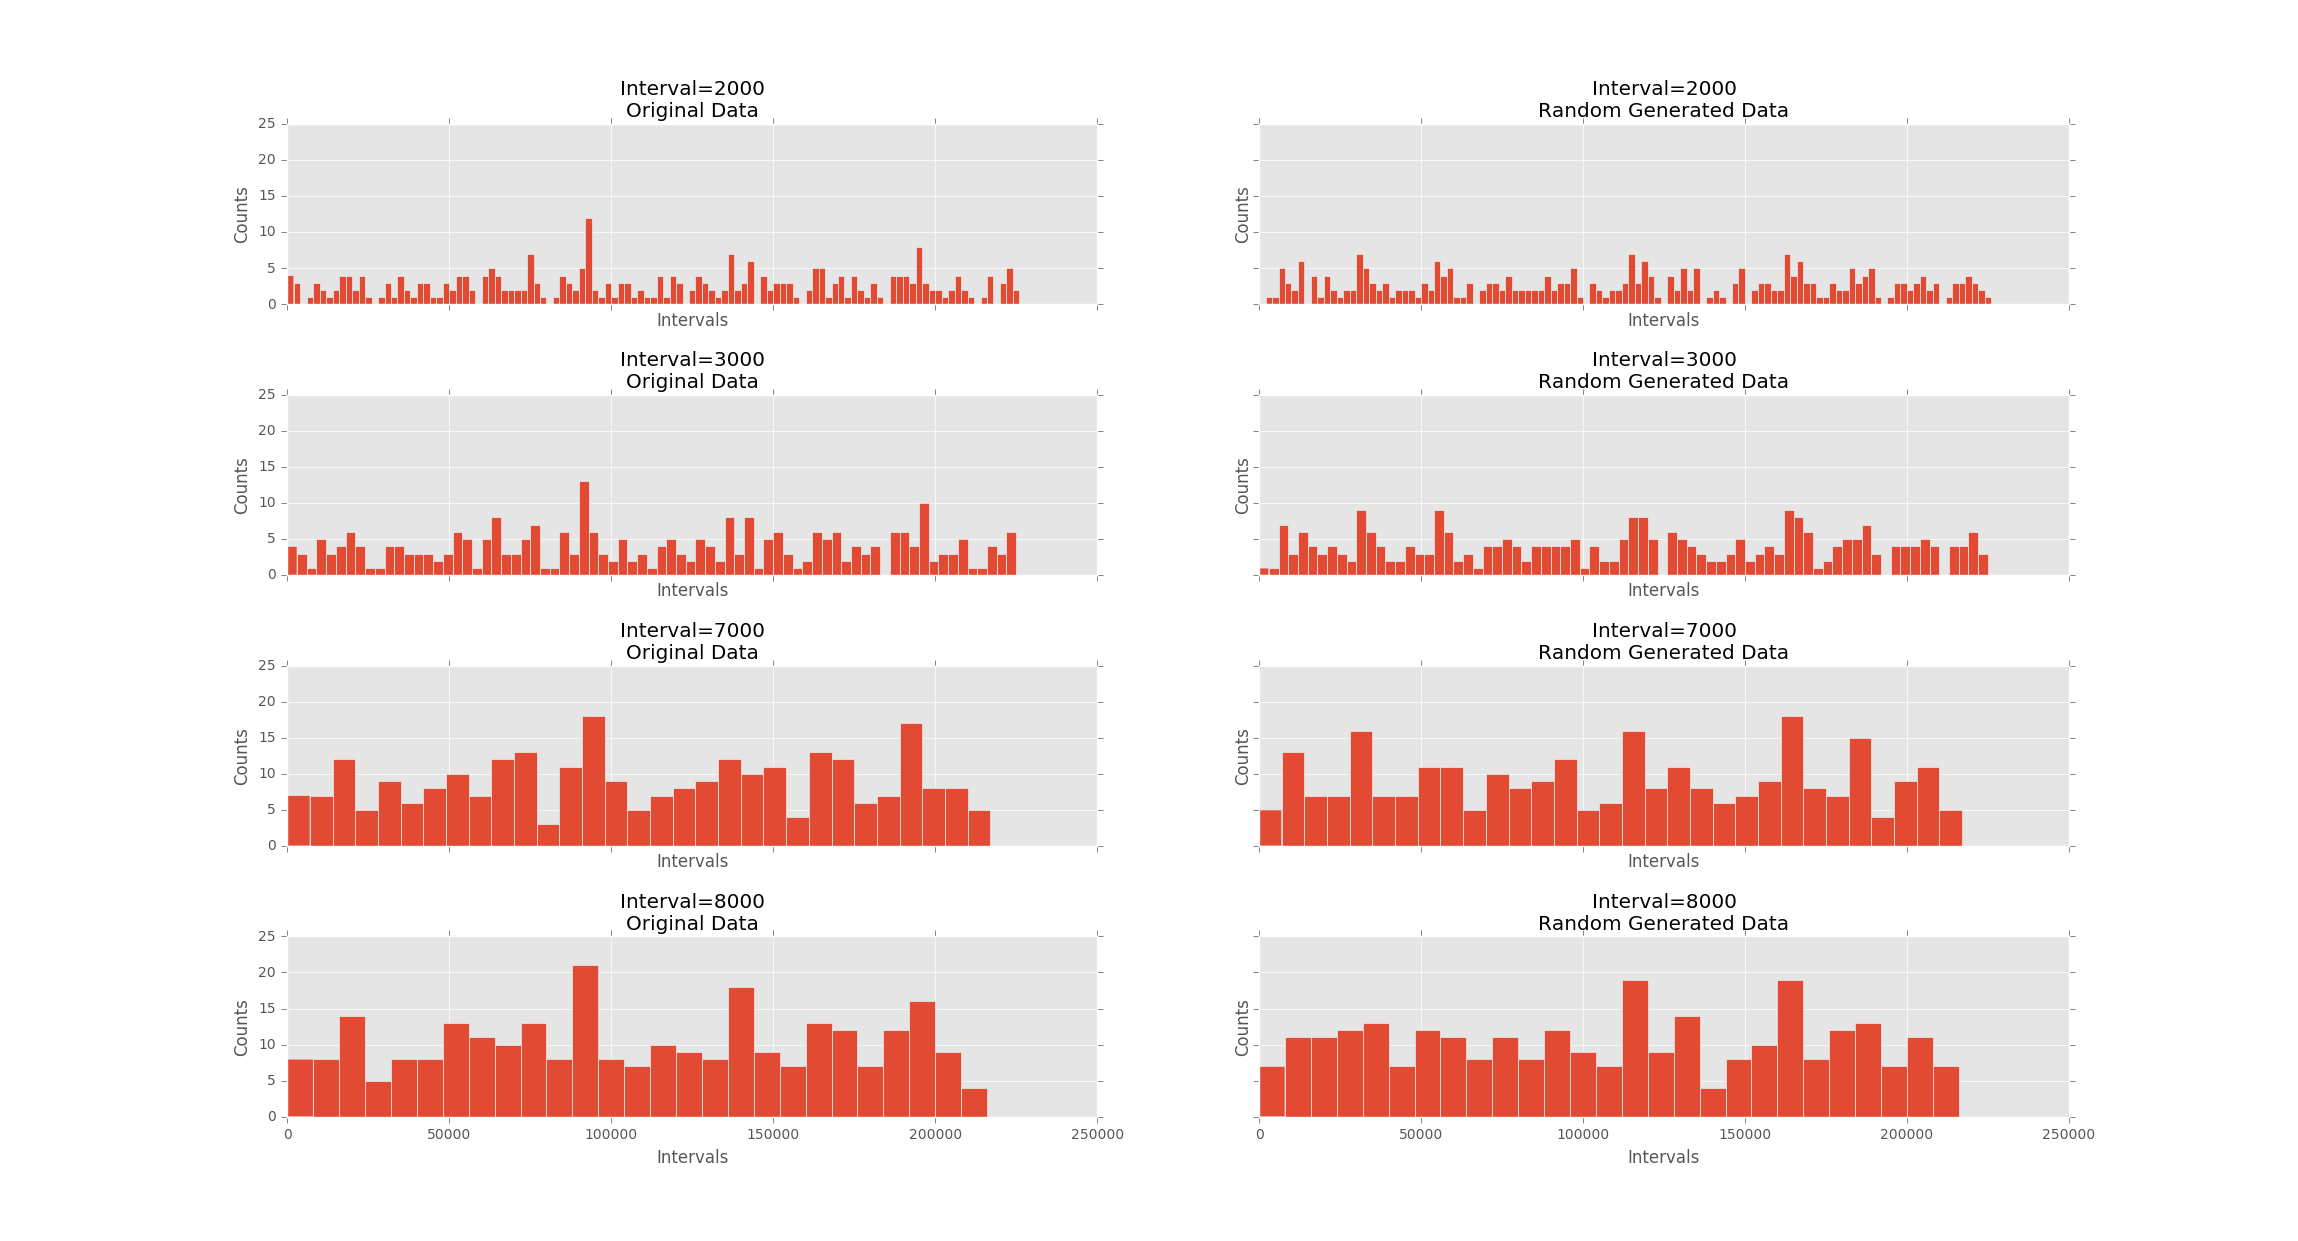
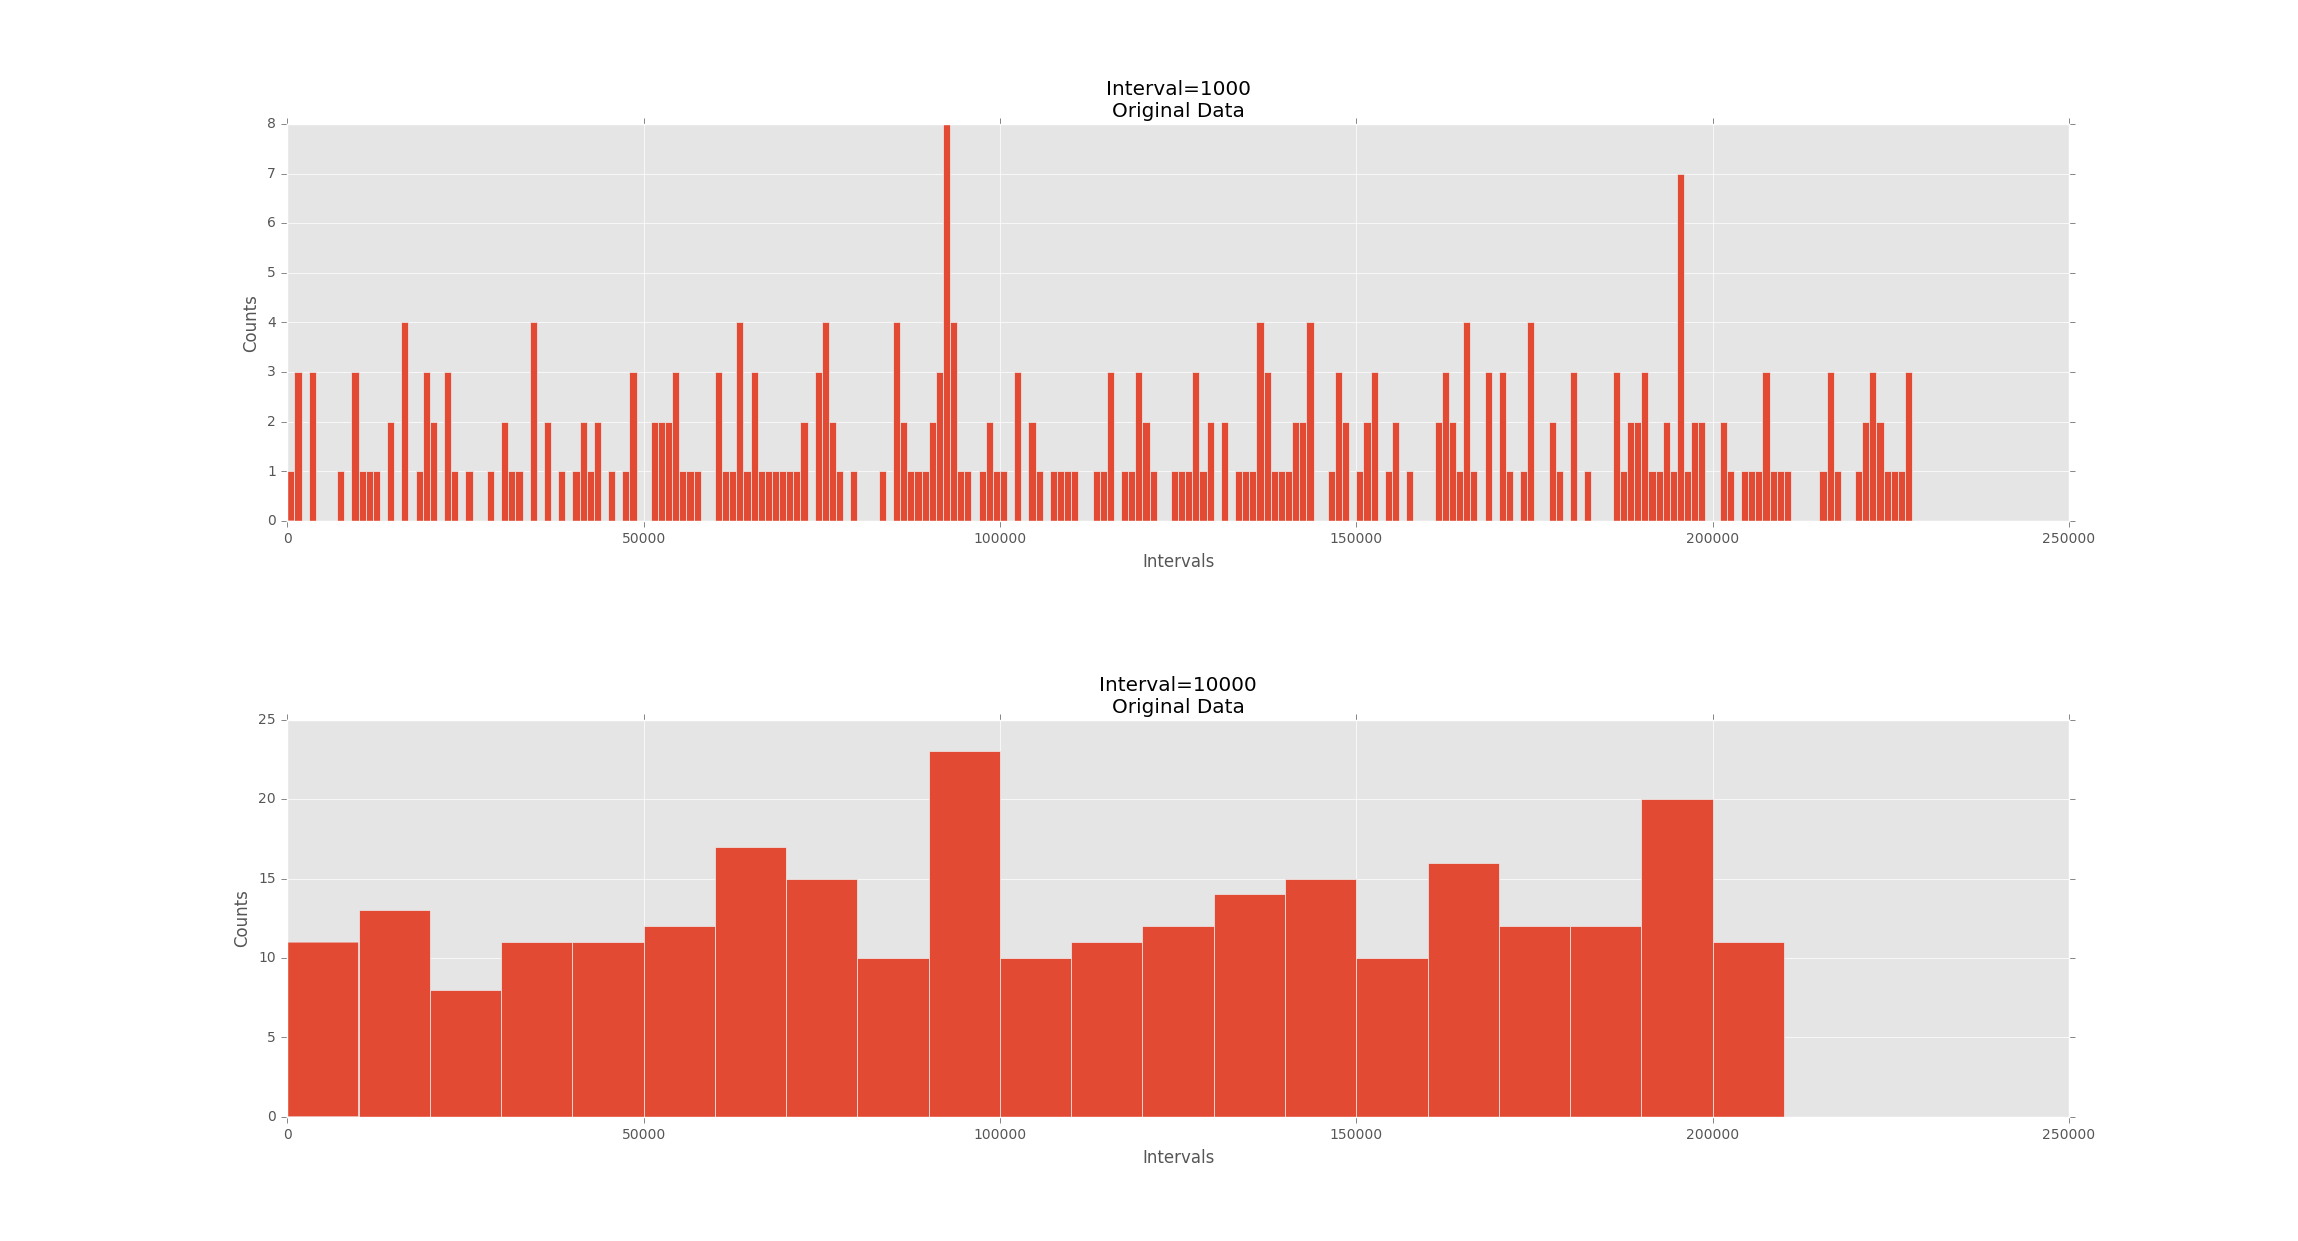
minor modifications for python codes

diff --git a/hw3/expected_number_of_intervals.py b/hw3/expected_number_of_intervals.py
@@ -13,46 +13,73 @@ def prob_max_hits(lamb,k,m):
 # n_row = 4
 n_col = 2
 lengh_dna = 229354
-intervals = 5594
-n_bins = lengh_dna/intervals
-# fig,ax = plt.subplots(len(intervals),n_col,sharex=True,sharey=True)
-lamb = 296/n_bins
+Intervals = range(3000,8000,10)
+P = []
+
+
 data = np.loadtxt("data.txt",skiprows=1)
-# print(data.shape)	
 num_pal = len(data)
 
-random = np.sort(np.random.choice(lengh_dna,num_pal,replace=False))
-# # print(random)
-# ax.set_xlabel('Intervals')
-# ax.set_ylabel('Counts')
-# for i in range(20):
-# 	print(i,prob_max_hits(lamb,i,3))
-# data_counts = []
+for i in range(1,42):
+	print(i,prob_max_hits(7.22,19,i))
+quit()
+for intervals in Intervals:
+	n_bins = lengh_dna/intervals
+	# fig,ax = plt.subplots(len(intervals),n_col,sharex=True,sharey=True)
+	lamb = 296/n_bins
+	# print(data.shape)	
+	n,bins,patches = plt.hist(data,bins=range(0,lengh_dna,intervals))
+	n,bins,patches = plt.hist(n,bins=range(0,20,1))
+	# print(n)
+	# quit()
+	random = np.sort(np.random.choice(lengh_dna,num_pal,replace=False))
+	# # print(random)
+	# ax.set_xlabel('Intervals')
+	# ax.set_ylabel('Counts')
+	# for i in range(20):
+	# 	print(i,prob_max_hits(lamb,i,3))
+	# data_counts = []
+	lower = 0
+	while sum(n[:lower])<4:
+		lower += 1
+	upper = 19
+	while sum(n[upper:])<4:
+		upper -= 1
+	# lower = 3
+	# upper = 9
+	data_counts = []
+	data_counts.append(sum(n[:lower]))
+	for i in range(lower,upper):
+		data_counts.append(n[i])
+	data_counts.append(sum(n[upper:]))
+	# print(data_counts)
+	# quit()
+	# data_counts = [0,0,1,1,4,5,5,9,8,1,4,1,0,0,1,0,0,0,1]
+	expected_num = []
+	for i in range(20):
+		expected_num.append(n_bins*poisson(lamb,i))
+	# d_counts = []
+	e_counts = []
 
-data_counts = [0,0,1,1,4,5,5,9,8,1,4,1,0,0,1,0,0,0,1]
-expected_num = []
-lower = 5
-upper = 8
-for i in range(20):
-	expected_num.append(n_bins*poisson(lamb,i))
-d_counts = []
-e_counts = []
+	# d_counts.append(sum(data_counts [:lower]))
+	e_counts.append(sum(expected_num[:lower]))
 
-d_counts.append(sum(data_counts [:lower]))
-e_counts.append(sum(expected_num[:lower]))
+	for i in range(lower,upper):
+		# d_counts.append(data_counts[i])
+		e_counts.append(expected_num[i])
 
-for i in range(lower,upper):
-	d_counts.append(data_counts[i])
-	e_counts.append(expected_num[i])
+	# d_counts.append(sum((data_counts[upper:])))
+	e_counts.append(sum((expected_num[upper:])))
 
-d_counts.append(sum((data_counts[upper:])))
-e_counts.append(sum((expected_num[upper:])))
+	# d_counts = np.array(d_counts)
+	e_counts = np.array(e_counts)
 
-d_counts = np.array(d_counts)
-e_counts = np.array(e_counts)
-
-print(scipy.stats.chisquare(f_obs=d_counts,f_exp=e_counts,ddof=1))
-print(d_counts,e_counts)
+	ch,p = scipy.stats.chisquare(f_obs=data_counts,f_exp=e_counts,ddof=1)
+	P.append(p)
+plt.clf()
+plt.plot(Intervals,P)
+plt.show()
+	# print(data_counts,e_counts)
 # print(sum(np.divide((d_counts-e_counts)**2,e_counts)))
 # chi_cal = []
 # print(e_counts)

diff --git a/hw3/intervals.py b/hw3/intervals.py
@@ -3,11 +3,11 @@ import matplotlib.pyplot as plt
 plt.style.use('ggplot')
 
 # n_row = 4
-n_col = 2
+n_col = 1
 lengh_dna = 229354
 intervals = [4587,5090,5594]
-intervals = [2000,3000,7000,8000]
-fig,ax = plt.subplots(len(intervals),n_col,sharex=True,sharey=True)
+intervals = [int(lengh_dna/10)]
+fig,ax = plt.subplots(len(intervals),n_col,sharex=False,sharey=False)
 
 data = np.loadtxt("data.txt",skiprows=1)
 # print(data.shape)
@@ -18,20 +18,35 @@ random = np.sort(np.random.choice(lengh_dna,num_pal,replace=False))
 # ax.set_xlabel('Intervals')
 # ax.set_ylabel('Counts')
 
+# for ind,step in enumerate(intervals):
+# 	bins = range(0,lengh_dna,step)[:-1]
+# 	ax[ind][0].hist(data,bins=bins)
+# 	ax[ind][1].hist(random,bins=bins)
+# 	ax[ind][0].set_xlabel('Intervals')
+# 	ax[ind][0].set_ylabel('Counts')
+# 	title = 'Interval='+str(step)+'\nOriginal Data'
+# 	ax[ind][0].set_title(title)
+
+
+# 	ax[ind][1].set_xlabel('Intervals')
+# 	ax[ind][1].set_ylabel('Counts')
+# 	title = 'Interval='+str(step)+'\nRandom Generated Data'
+# 	ax[ind][1].set_title(title)
+
 for ind,step in enumerate(intervals):
 	bins = range(0,lengh_dna,step)[:-1]
-	ax[ind][0].hist(data,bins=bins)
-	ax[ind][1].hist(random,bins=bins)
-	ax[ind][0].set_xlabel('Intervals')
-	ax[ind][0].set_ylabel('Counts')
+	ax[ind].hist(data,bins=bins)
+	# ax[ind][1].hist(random,bins=bins)
+	ax[ind].set_xlabel('Intervals')
+	ax[ind].set_ylabel('Counts')
 	title = 'Interval='+str(step)+'\nOriginal Data'
-	ax[ind][0].set_title(title)
+	ax[ind].set_title(title)
 
 
-	ax[ind][1].set_xlabel('Intervals')
-	ax[ind][1].set_ylabel('Counts')
+	# ax[ind][1].set_xlabel('Intervals')
+	# ax[ind][1].set_ylabel('Counts')
 	title = 'Interval='+str(step)+'\nRandom Generated Data'
-	ax[ind][1].set_title(title)
+	# ax[ind][1].set_title(title)
 
 fig.subplots_adjust(hspace=0.5,wspace=0.2)
 plt.show()

diff --git a/hw3/10largesegmentspy.py b/hw3/10largesegmentspy.py
@@ -1,0 +1,38 @@
+import numpy as np
+import scipy.stats
+import matplotlib.pyplot as plt
+plt.style.use('ggplot')
+segments = 13
+# n_row = 4
+n_col = 1
+lengh_dna = 229354
+# intervals = [4587,5090,5594]
+intervals = int(lengh_dna/segments)
+# fig,ax = plt.subplots(len(intervals),n_col,sharex=False,sharey=False)
+
+data = np.loadtxt("data.txt",skiprows=1)
+# print(data.shape)
+num_pal = len(data)
+uniform = [296/segments for i in range(segments)]
+
+bins = range(0,lengh_dna,intervals)
+
+n,bins,patchs = plt.hist(data,bins=bins)
+plt.hist(uniform,bins=bins)
+print(scipy.stats.chisquare(f_obs=n,f_exp=uniform,ddof=0))
+print (n)
+print(uniform)
+n = np.array(n)
+uniform = np.array(uniform)
+
+print((n-uniform)/np.sqrt(uniform))
+plt.xlabel('Intervals')
+plt.ylabel('Counts')
+title = 'Interval='+str(intervals)
+plt.title(title)
+
+
+# plt.show()
+
+
+
